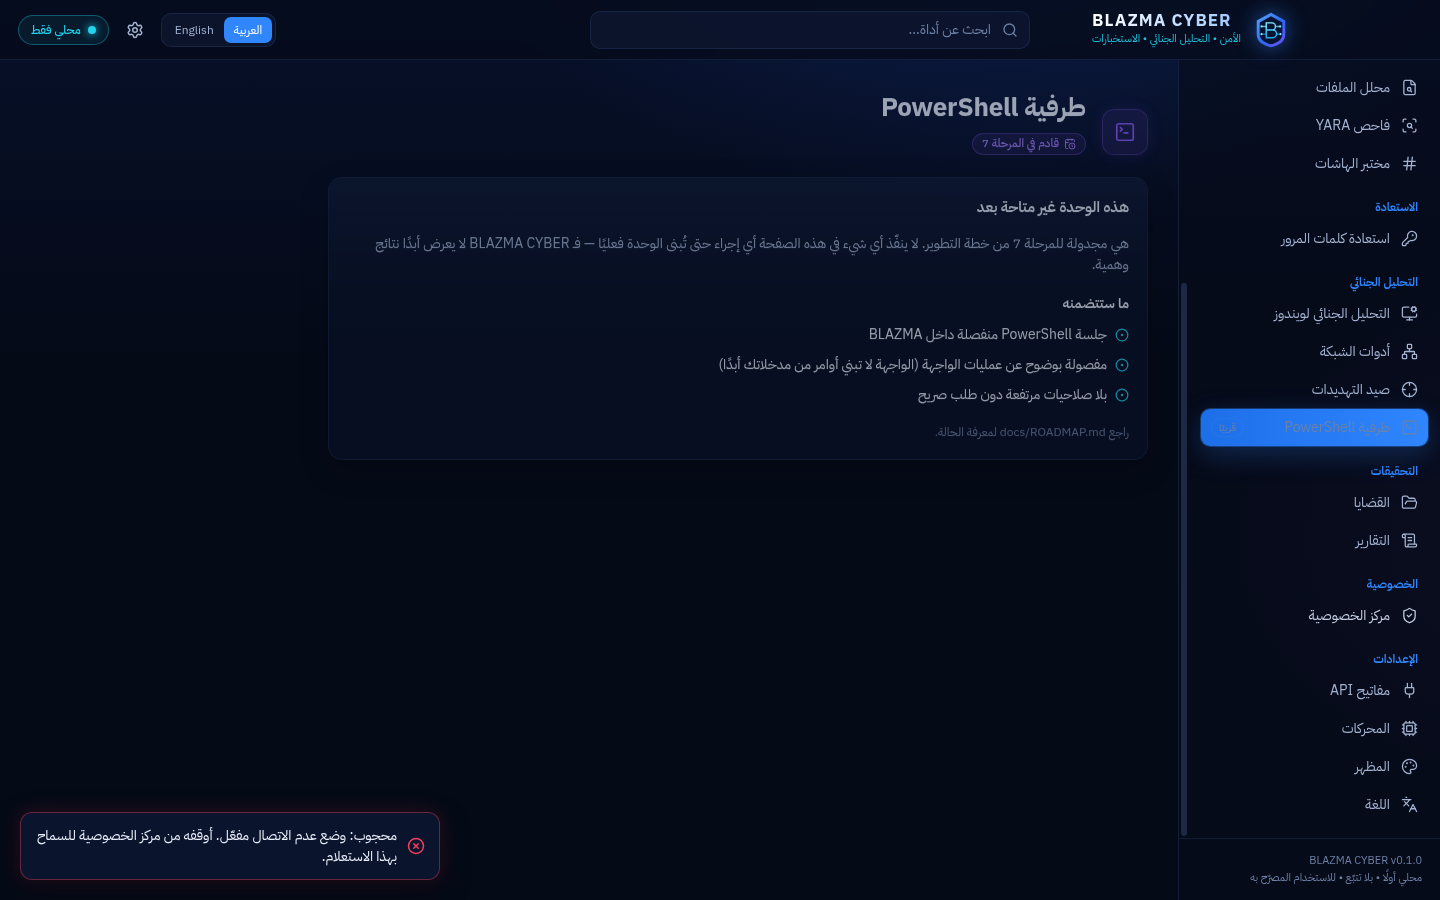
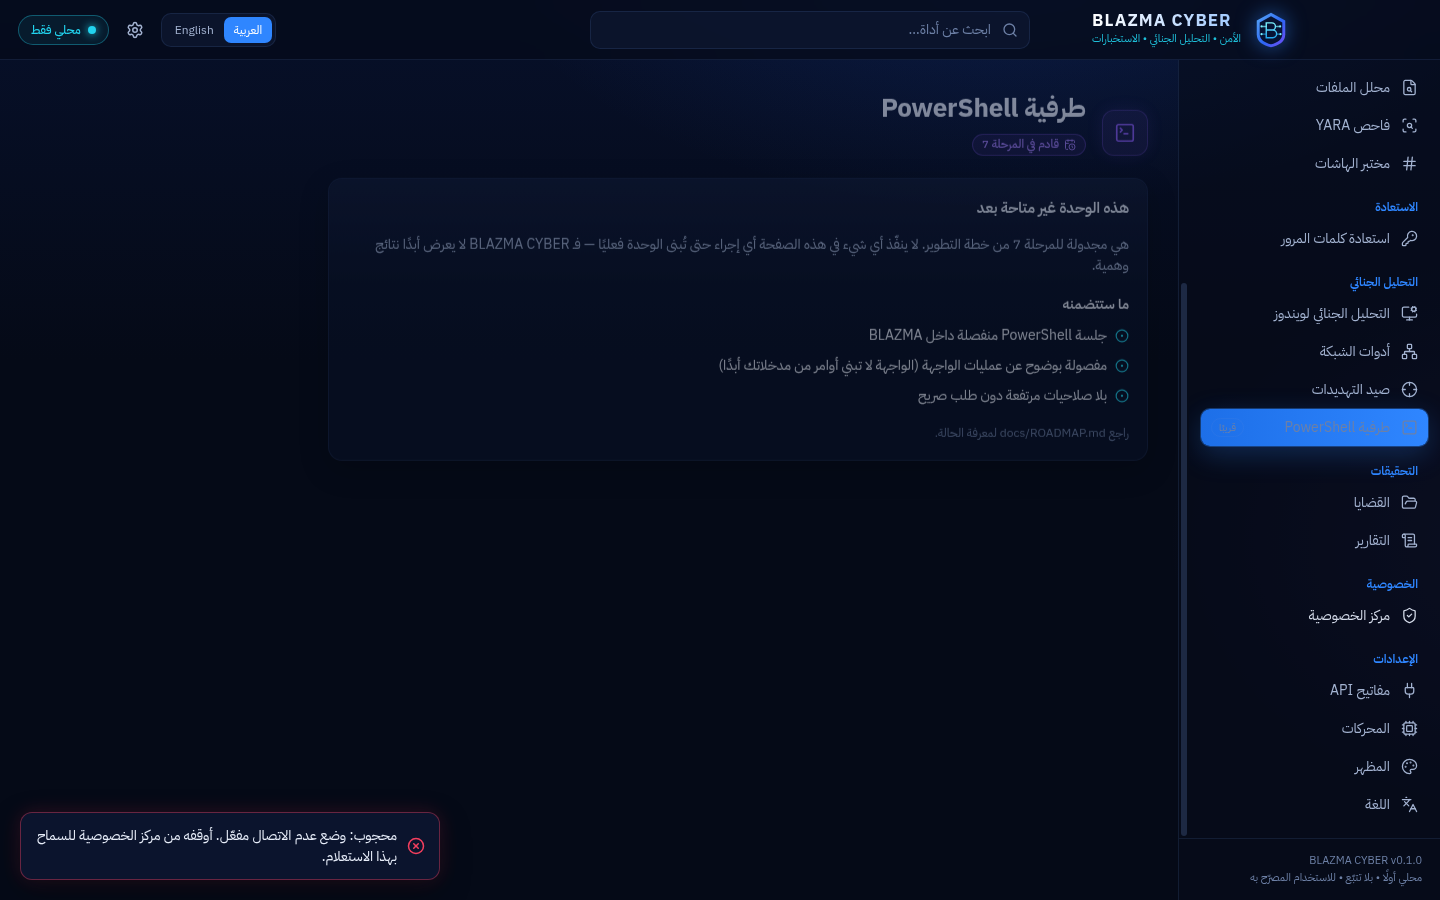
Phase 7: final security review and keyboard accessibility fixes
- Security: window.open is now always denied; external result links go
  through a validated app:openLink IPC (https + host allowlist) that honours
  Offline Mode and is recorded in Network Activity (previously any https link
  opened directly, bypassing the gate)
- Reports: open/reveal/remove only touch files inside the reports folder with
  an expected extension (defence in depth)
- Accessibility: Escape closes dialogs, dialogs are labelled, focus moves into
  the Add-to-case dialog; E2E asserts Escape
- Tests for the link allowlist; audit section 8 in docs/AUDIT-REPORT.md

Claude-Session: https://claude.ai/code/session_01VhR6J9gpr1mAvarjfZ6rD8

diff --git a/tests/intel-parsers.test.ts b/tests/intel-parsers.test.ts
@@ -2,7 +2,7 @@ import { describe, expect, it } from 'vitest';
 import ipRdap from './fixtures/rdap-ip.json';
 import domainRdap from './fixtures/rdap-domain.json';
 import {
-  cidrContains, cymruOriginName, expandIPv6, parseAbuseIpdb, parseCymruAsName, parseCymruOrigin, parseDomainRdap, parseIpRdap,
+  cidrContains, cymruOriginName, externalLinkHost, expandIPv6, parseAbuseIpdb, parseCymruAsName, parseCymruOrigin, parseDomainRdap, parseIpRdap,
   parseIpinfo, parseShodanHost, parseTorExitList, parseVirusTotal, pickDmarc, pickSpf, rdapBaseForDomain, rdapBaseForIp, vtPath,
 } from '../src/core/intel';
 
@@ -102,5 +102,15 @@ describe('providers', () => {
       .toEqual({ service: 'abuseipdb', found: true, abuseScore: 87, totalReports: 120, lastReported: '2026-09-01T00:00:00+00:00', usageType: 'Data Center/Web Hosting/Transit', isp: 'Example Hosting', isTor: false });
     expect(parseShodanHost({ ports: [443, 22, 80], hostnames: ['h.example'], vulns: { 'CVE-2024-0001': {} }, tags: ['cloud'], org: 'Org' }))
       .toEqual({ service: 'shodan', found: true, ports: [22, 80, 443], hostnames: ['h.example'], vulns: ['CVE-2024-0001'], tags: ['cloud'], isp: 'Org' });
+  });
+});
+
+describe('external result links', () => {
+  it('allows only https links to allowlisted hosts', () => {
+    expect(externalLinkHost('https://www.virustotal.com/gui/domain/example.com')).toBe('www.virustotal.com');
+    for (const bad of [
+      'http://www.virustotal.com/gui/x', 'https://evil.example/', 'https://www.virustotal.com.evil.example/', 'https://user@www.virustotal.com/',
+      'https://www.virustotal.com:8443/', 'javascript:alert(1)', 'file:///c:/windows/system32/calc.exe', 'ms-settings:', 42, null,
+    ]) expect(externalLinkHost(bad), String(bad)).toBeNull();
   });
 });

diff --git a/src/renderer/components/AppContext.tsx b/src/renderer/components/AppContext.tsx
@@ -3,6 +3,7 @@ import { AlertTriangle, CircleCheck, CircleX, Info } from 'lucide-react';
 import type { Settings } from '../../shared/api';
 import type { PageId } from '../nav';
 import { useI18n } from '../i18n/I18nProvider';
+import { useEscape } from './useEscape';
 
 type ToastTone = 'green' | 'red' | 'amber' | 'blue';
 
@@ -82,6 +83,7 @@ export function AppProvider({ settings, setSettings, initialPage, children }: {
     dialog?.resolve(v);
     setDialog(null);
   };
+  useEscape(!!dialog, () => close(false));
 
   return (
     <Ctx.Provider value={{ settings, updateSettings, page, navigate: setPage, toast, confirm, analyzeFile, takePendingFile }}>
@@ -99,9 +101,9 @@ export function AppProvider({ settings, setSettings, initialPage, children }: {
       </div>
       {dialog && (
         <div className="overlay" onClick={() => close(false)}>
-          <div className="dialog" role="alertdialog" aria-modal="true" onClick={(e) => e.stopPropagation()}>
-            <h3>{dialog.title}</h3>
-            <p className="muted" style={{ margin: 0 }}>{dialog.body}</p>
+          <div className="dialog" role="alertdialog" aria-modal="true" aria-labelledby="confirm-title" aria-describedby="confirm-body" onClick={(e) => e.stopPropagation()}>
+            <h3 id="confirm-title">{dialog.title}</h3>
+            <p id="confirm-body" className="muted" style={{ margin: 0 }}>{dialog.body}</p>
             {dialog.requireCheck && (
               <label className="row" style={{ marginTop: 14, alignItems: 'flex-start', cursor: 'pointer' }}>
                 <input type="checkbox" checked={checked} onChange={(e) => setChecked(e.target.checked)} style={{ marginTop: 4 }} />

diff --git a/src/renderer/components/AddToCase.tsx b/src/renderer/components/AddToCase.tsx
@@ -4,6 +4,7 @@ import type { CaseSummary, Evidence, EvidenceKind } from '../../shared/api';
 import { useApp } from './AppContext';
 import { useI18n } from '../i18n/I18nProvider';
 import { Ltr } from './ui';
+import { useEscape } from './useEscape';
 
 export interface EvidenceDraft {
   kind: EvidenceKind;
@@ -21,6 +22,7 @@ export function AddToCase({ items, small = true }: { items: EvidenceDraft[]; sma
   const [cases, setCases] = useState<CaseSummary[] | null>(null);
   const [newName, setNewName] = useState('');
   const [busy, setBusy] = useState(false);
+  useEscape(open, () => setOpen(false));
 
   const show = async () => {
     setOpen(true);
@@ -57,7 +59,7 @@ export function AddToCase({ items, small = true }: { items: EvidenceDraft[]; sma
           <div className="dialog" role="dialog" aria-modal="true" onClick={(e) => e.stopPropagation()}>
             <div className="row" style={{ marginBottom: 10 }}>
               <h3 style={{ flex: 1 }}>{t('cases.addToCase')}</h3>
-              <button className="icon-btn" aria-label={t('common.close')} onClick={() => setOpen(false)}><X size={16} /></button>
+              <button className="icon-btn" aria-label={t('common.close')} onClick={() => setOpen(false)} autoFocus><X size={16} /></button>
             </div>
             <div className="small dim" style={{ marginBottom: 10 }}>
               {items.slice(0, 3).map((i) => <div key={i.value}><Ltr mono breakAll>{i.value}</Ltr></div>)}

diff --git a/src/main/ipc.ts b/src/main/ipc.ts
@@ -11,6 +11,7 @@ import { DefenderError, findMpCmdRun, getThreatHistory, runDefenderScan } from '
 import { YaraError, YaraService } from './services/yara';
 import { IntelError, IntelService } from './services/intel';
 import { OsintService } from './services/osint';
+import { externalLinkHost } from '../core/intel';
 import * as forensics from './services/forensics';
 import { NetToolsError, NetToolsService } from './services/nettools';
 import { RecoveryError, RecoveryService, detectFileEncryption } from './services/recovery';
@@ -132,6 +133,12 @@ export function registerIpc(getWindow: () => BrowserWindow | null, isTrustedSend
     electron: process.versions.electron,
     secureStorageAvailable: safeStorage.isEncryptionAvailable(),
   }));
+  handle('app:openLink', async (url: unknown) => {
+    const host = externalLinkHost(url);
+    if (!host) return fail('invalid_input');
+    await gate.run({ module: 'reputation', service: 'browser:link', host, dataKind: 'privacy.data.indicator' }, () => shell.openExternal(url as string));
+    return { ok: true, data: true };
+  });
   handle('app:openDataFolder', async () => {
     const err = await shell.openPath(dataDir());
     return err ? fail('open_failed') : { ok: true, data: true };

diff --git a/src/core/intel.ts b/src/core/intel.ts
@@ -255,6 +255,22 @@ export function vtPath(kind: VtKind, value: string): string {
   return `https://www.virustotal.com/api/v3/${coll}/${encodeURIComponent(value)}`;
 }
 
+/** Hosts whose result pages the UI may open in the user's browser (always via NetworkGate). */
+export const EXTERNAL_LINK_HOSTS: readonly string[] = ['www.virustotal.com'];
+
+/** Returns the host when `url` is an https link to an allowlisted host (no credentials/port), else null. */
+export function externalLinkHost(url: unknown): string | null {
+  if (typeof url !== 'string' || url.length > 2048) return null;
+  let u: URL;
+  try {
+    u = new URL(url);
+  } catch {
+    return null;
+  }
+  if (u.protocol !== 'https:' || u.username || u.password || u.port) return null;
+  return EXTERNAL_LINK_HOSTS.includes(u.hostname) ? u.hostname : null;
+}
+
 export function vtGuiLink(kind: VtKind, value: string): string {
   const seg = kind === 'ip' ? 'ip-address' : kind === 'domain' ? 'domain' : 'file';
   return `https://www.virustotal.com/gui/${seg}/${encodeURIComponent(value)}`;

diff --git a/src/main/services/reports.ts b/src/main/services/reports.ts
@@ -6,7 +6,7 @@ import { BrowserWindow, shell } from 'electron';
 import os from 'node:os';
 import { app } from 'electron';
 import { writeFile, readFile, rm, stat } from 'node:fs/promises';
-import { join } from 'node:path';
+import { dirname, extname, join, resolve } from 'node:path';
 import { pathToFileURL } from 'node:url';
 import type { InvestigationCase, ReportFormat, ReportOptions, ReportRecord } from '../../shared/api';
 import type { Lang } from '../../core/i18n';
@@ -102,6 +102,10 @@ export class ReportService {
     if (typeof id !== 'string' || !ID_RE.test(id)) throw new ReportError('invalid_input');
     const r = this.index().find((x) => x.id === id);
     if (!r) throw new ReportError('report_not_found');
+    // Defence in depth: the index is local state, but we only ever open/delete our own report files.
+    if (typeof r.path !== 'string' || dirname(resolve(r.path)) !== resolve(this.dir) || !['.html', '.pdf', '.json'].includes(extname(r.path))) {
+      throw new ReportError('report_not_found');
+    }
     return r;
   }
 

diff --git a/src/main/index.ts b/src/main/index.ts
@@ -1,4 +1,4 @@
-import { app, BrowserWindow, Menu, session, shell, type IpcMainInvokeEvent } from 'electron';
+import { app, BrowserWindow, Menu, session, type IpcMainInvokeEvent } from 'electron';
 import { join } from 'node:path';
 import { pathToFileURL } from 'node:url';
 import { registerIpc } from './ipc';
@@ -41,8 +41,15 @@ app.on('web-contents-created', (_e, contents) => {
     }
   });
   contents.setWindowOpenHandler(({ url }) => {
-    // External links open in the user's browser only for https, never inside Blazma.
-    if (url.startsWith('https://')) void shell.openExternal(url);
+    // No new windows, ever. External pages open only via the app:openLink IPC, which validates the
+    // host, honours Offline Mode and records the request in Network Activity.
+    let host = '';
+    try {
+      host = new URL(url).host;
+    } catch {
+      /* unparsable */
+    }
+    logger.security('window_open_blocked', { host });
     return { action: 'deny' };
   });
   contents.on('will-attach-webview', (ev) => ev.preventDefault());

diff --git a/src/renderer/components/intel.tsx b/src/renderer/components/intel.tsx
@@ -85,12 +85,17 @@ export function ReputationCard({ r }: { r: ReputationResult }) {
   const Icon = tone === 'red' ? ShieldAlert : tone === 'amber' ? TriangleAlert : ShieldCheck;
   const kv = (label: string, v: React.ReactNode) => (<><dt>{label}</dt><dd>{v}</dd></>);
   const name = t(`intel.src.reputation:${r.service}`);
+  const { toast } = useApp();
+  const openLink = async (url: string) => {
+    const res = await window.blazma.app.openLink(url);
+    if (!res.ok) toast('red', t(`errors.${res.error}`));
+  };
   return (
     <Card
       title={name}
       icon={Icon}
       tone={tone}
-      actions={r.link ? <a className="btn sm" href={r.link} target="_blank" rel="noreferrer noopener"><ExternalLink size={13} /> {t('intel.rep.open')}</a> : undefined}
+      actions={r.link ? <button className="btn sm" onClick={() => void openLink(r.link!)}><ExternalLink size={13} /> {t('intel.rep.open')}</button> : undefined}
     >
       {!r.found ? <div className="muted">{t('intel.rep.notFound')}</div> : (
         <dl className="kv">

diff --git a/src/renderer/components/useEscape.ts b/src/renderer/components/useEscape.ts
@@ -1,0 +1,18 @@
+import { useEffect, useRef } from 'react';
+
+/** Closes a modal dialog with the Escape key while it is open (keyboard accessibility). */
+export function useEscape(open: boolean, onClose: () => void): void {
+  const cb = useRef(onClose);
+  cb.current = onClose;
+  useEffect(() => {
+    if (!open) return;
+    const h = (e: KeyboardEvent) => {
+      if (e.key === 'Escape') {
+        e.preventDefault();
+        cb.current();
+      }
+    };
+    window.addEventListener('keydown', h);
+    return () => window.removeEventListener('keydown', h);
+  }, [open]);
+}

diff --git a/src/shared/api.ts b/src/shared/api.ts
@@ -812,6 +812,8 @@ export interface BlazmaApi {
   app: {
     info(): Promise<AppInfo>;
     openDataFolder(): Promise<Result<true>>;
+    /** Opens an allowlisted https result page in the default browser (gated, logged). */
+    openLink(url: string): Promise<Result<true>>;
   };
   settings: {
     get(): Promise<Settings>;

diff --git a/src/preload/index.ts b/src/preload/index.ts
@@ -9,6 +9,7 @@ const api: BlazmaApi = {
   app: {
     info: () => invoke('app:info'),
     openDataFolder: () => invoke('app:openDataFolder'),
+    openLink: (url) => invoke('app:openLink', url),
   },
   settings: {
     get: () => invoke('settings:get'),

diff --git a/docs/AUDIT-REPORT.md b/docs/AUDIT-REPORT.md
@@ -175,3 +175,15 @@
 | مكتبات وقت التشغيل | 5 |
 | حجم الواجهة المبنية | 1.1 م.ب (منها الخطوط العربية) |
 | ثغرات معروفة في المكتبات | 0 |
+
+## 8. مراجعة الأمان النهائية (المرحلة 7)
+
+| # | الملاحظة | الخطورة | الحالة |
+|---|---|---|---|
+| 1 | `setWindowOpenHandler` كان يفتح أي رابط https مباشرة في المتصفح (مثل زر "فتح" في بطاقة VirusTotal)، متجاوزًا وضع عدم الاتصال وسجل نشاط الشبكة | متوسطة | **أُصلح**: فتح النوافذ مرفوض دائمًا؛ الروابط الخارجية تمر عبر `app:openLink` بقائمة مضيفين مسموحة + NetworkGate + تسجيل |
+| 2 | مسار التقرير يُقرأ من فهرس محلي ثم يُفتح بـ `shell.openPath` | منخفضة (دفاع إضافي) | **أُصلح**: لا يُفتح/يُحذف إلا ملف داخل مجلد التقارير بامتداد html/pdf/json |
+| 3 | روابط OSINT الخارجية | — | مُصمَّمة بأمان: الرابط يُعاد بناؤه في العملية الرئيسية من (النوع، القيمة، المعرّف)، https فقط، بعد تأكيد، ومحجوب دون اتصال |
+| 4 | الحزمة المثبّتة | — | صمامات Electron مفعّلة (RunAsNode/NODE_OPTIONS/inspect معطّلة، التحقق من سلامة asar، التحميل من asar فقط)، تثبيت لكل مستخدم بلا صلاحيات مرتفعة، بلا تحديث تلقائي |
+| 5 | الاعتماديات والأسرار | — | `npm audit`: صفر ثغرات؛ فحص المستودع: لا مفاتيح أو شهادات |
+
+ما زال مطلوبًا: التحقق على Windows حقيقي (PowerShell/Defender/Authenticode/المثبّت)، وتوقيع الكود.
